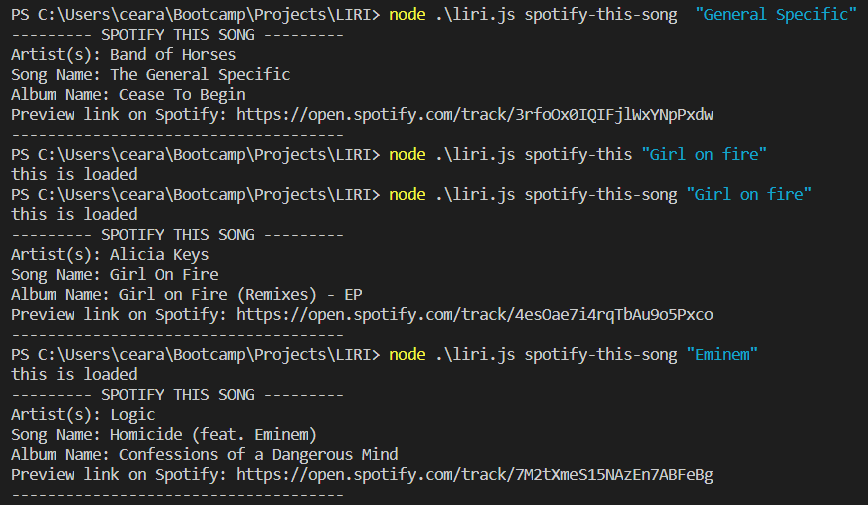
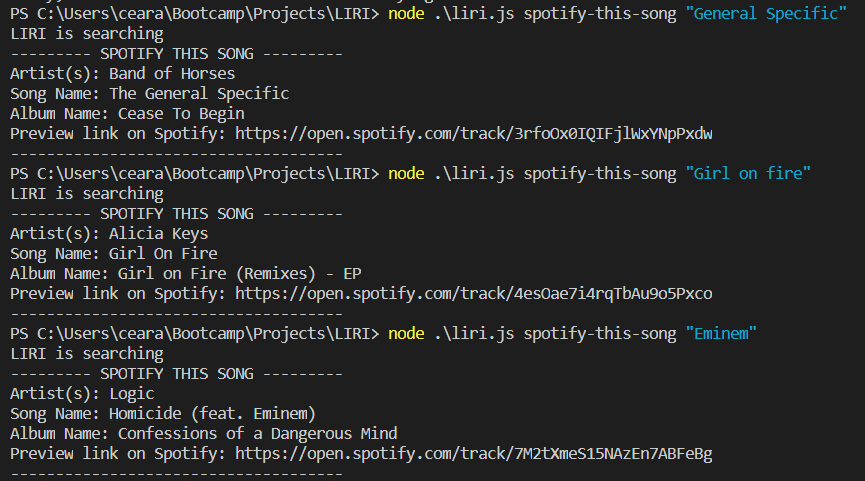
Fixed do-what-it-says command and updated Readme file

Changed region(s): [[0.0, 0.0, 0.9988, 0.9979]]

diff --git a/liri.js b/liri.js
@@ -12,7 +12,7 @@ var spotify = new Spotify(keys.spotify);
 var userAction = process.argv[2];
 var userChoice = process.argv[3];
 
-runLiri();
+runLiri(userAction, userAction);
 // Determines which process to perform.
 // Based on userChoice run one of the following
 function runLiri(){
@@ -29,8 +29,12 @@ switch (userAction) {
     searchMovie(userChoice);
     break;
   
-    case "do-what-it-says":
+  case "do-what-it-says":
     readRandom();
+    break;
+  
+  default:
+    console.log("Sorry, LIRI doesn't know how to do that. Try again!")
 }
 }
 
@@ -56,14 +60,14 @@ axios.get(queryUrl).then(
     function(response) {
       console.log("--------- CONCERT THIS ----------");
       console.log(" ");
-      console.log("Search: " + userChoice);
+      console.log("Upcoming Concerts for: " + userChoice);
       console.log("---------------------------------");
       for (i = 0; i < response.data.length; i++){
         // If the venue doesn't have a region run the following
         if (response.data[i].venue.region === ""){
           console.log(response.data[i].venue.name);
           console.log(response.data[i].venue.city + ", " + response.data[i].venue.country);
-          console.log (moment(response.data[i].datetime).format('MM-DD-YYYY'));
+          console.log ("Date: " + moment(response.data[i].datetime).format('MM-DD-YYYY'));
           console.log("---------------------------------");
         }
         // If venue has a region run the following
@@ -143,23 +147,12 @@ function readRandom(){
   fs.readFile("random.txt", "utf8", function(err, data) {
     if (err) {
       return console.log(err);
-    }
-    // var output = data.split(",");
-
-    console.log(data);
+    }    
     var output = data.split(",");
-    console.log(output);
-    console.log(output.length);
-    var firstCall = output[0];
-    var secondCall = output[1];
-    console.log(firstCall);
-    console.log(secondCall);
-    for (var i = 0; i < output.length; i++) {
-
-      // Print each element (item) of the array/
-      console.log(output[i]);
-    }
-
+    userChoice = output[1];
+    userAction = output[0];
+    runLiri();
+   
   });
-runLiri(firstCall, secondCall);
+
 }

diff --git a/keys.js b/keys.js
@@ -1,4 +1,4 @@
-console.log('this is loaded');
+console.log('LIRI is searching');
 
 exports.spotify = {
   id: process.env.SPOTIFY_ID,

diff --git a/README.md b/README.md
@@ -32,15 +32,19 @@ To retrieve the data that will power this app, requests are sent using the `axio
    * `do-what-it-says`
 
   #### `concert-this <artist name>` - When running this command, concert venue information is displayed for desired artist
-   *  ![alt concert-this](screenshots/concert-this-temp.png)
+   *  ![alt concert-this](screenshots/concert-this2.png)
   
 
 
 
   #### `spotify-this-song` - When running this command, Spotify information is displayed for desired song
- *  ![alt spotify-this](screenshots/spotify-this-song.PNG)
+   ![alt spotify-this](screenshots/spotify-this-song.PNG)
 
 
 
    #### `movie-this` - When running this command, movie information is displayed
-*    ![alt movie-this](screenshots/movie-this-temp.png)
+  ![alt movie-this](screenshots/movie-this.png)
+
+
+   #### `do-what-says` - When running this command, LIRI reads random.txt and executes the command accordingly
+  ![alt movie-this](screenshots/do-what-it-says.png)
